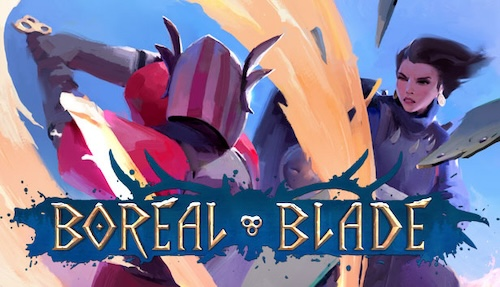
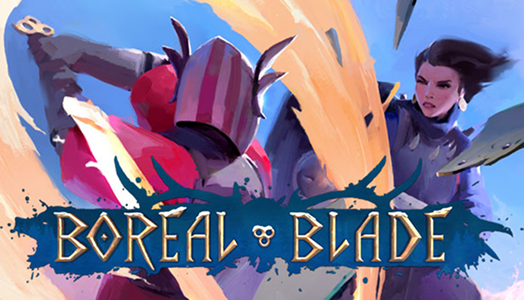
Added a protfolio piece. Aligned images.

diff --git a/_portfolio/project6.md b/_portfolio/project6.md
@@ -1,0 +1,41 @@
+---
+title: Setting Up a User Research Function
+subtitle: Team Alignment, Culture Building, Roadmapping, Post Mortem, Workshops
+image: assets/img/portfolio/facilitation.jpg
+alt: A group of sticky notes on a virtual wall
+
+caption:
+  title: Setting Up a User Research Function
+  subtitle: I am a seasoned facilitator helping teams define and build their culture, find alignment, build roadmaps, learn new skills, and wrap up projects to maximise learnings. These workshops or sessions can be either in person or online depending on the team’s needs. The length varies from a half day workshop to a week long series, depending on the team’s needs.
+  thumbnail: assets/img/portfolio/facilitation.jpg
+---
+I am a seasoned facilitator helping teams define and build their culture, find alignment, build roadmaps, learn new skills, and wrap up projects to maximise learnings. These workshops or sessions can be either in person or online depending on the team’s needs. The length varies from a half day workshop to a week long series, depending on the team’s needs.
+
+<b>Team alignment</b>
+The more team members there are and the more time passes, the more likely it is that there are breaks in communication and misalignment within the team.
+
+I’ve designed and run custom made workshops to realign teams, surface and address any frustrations the team is harbouring, and build momentum within the entire team.
+
+For example, the Boreal Blade team was completely misaligned on what kind of game they were making and frustrations were mounting as the team was moving from the iteration to polish phase of development. After guiding them through the creation of a Game Design Document, they had a shared language and understanding of what they were doing, and a way to address any changes that were not communicated clearly.
+
+<b>Team culture building</b>
+Team culture consists of the values, goals, and ways of working that the team has.
+
+I have designed and run workshops to allow teams to define and codify their cultures. This has improved the team’s communication, efficiency, and overall satisfaction from the end of the workshop long into their future.
+
+For example, as a young studio, the team at Bitmagic found itself in a place where the team was split into small factions with mistrust and even hostility growing between each. After a half-day workshop, the team felt more connected to each other and safe to proceed with their work.
+
+<b>Roadmapping</b>
+Even when teams are aligned, it is sometimes difficult to prioritise all the tasks at hand. Especially when the team is diverse, the amount of tasks brought to the table can feel overwhelming.
+
+I’ve run Design Sprints and other workshops to clarify team vision, goals, and the way to reaching both.
+
+For example, the design team at Bitmagic had grand ideas, but struggled to gain momentum. I ran a weeklong workshop to help the team solidify a shared vision, clarify goals based on that vision, define milestones for the next six months, and build a roadmap to them. This helped the team and management regain confidence and rebuild momentum that had been lost.
+
+<b>Post Mortem</b>
+All too often teams feel the project is completed once the product or phase is finished. This thinking robs the team and company from learning from the project and its successes and failures. 
+
+For example, I was in charge of two internal projects at Redhill Games. After they ended, I ran a post-mortem for each team. I gathered information from them with a survey beforehand and designed the content of the half-day workshop based on the main points that arose from the survey. One team focused on a sense of ownership and communication in their session as they had struggled with both. The other team focused on defining the structure and guidance future projects would need, as these were the things that had caused their team the most issues. While the topics were difficult, both teams gleaned many insights valuable both on the individual and company level. One participant told me: “I have never been in a better organised or thought-out post-mortem, and I’ve seen and even run quite a few.”
+
+<b>Workshops</b>
+I have created multiple interactive workshops to teach teams and groups new skills. These include design thinking, accessibility design, and how to use specific technical tools. After each, the participants have walked away with tangible skills or practical ideas to take back to their work.
